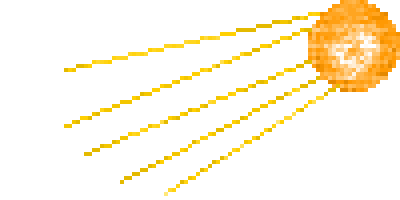
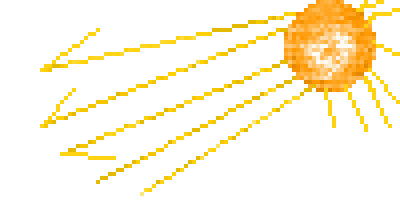
a

diff --git a/game/js/level.js b/game/js/level.js
@@ -630,7 +630,8 @@ function e2m10(){
     E_clear(G_BACKGROUND);
     E_background("https://raw.githubusercontent.com/Mad-Mushroom/DerPhysikus/main/game/js/res/background_blur2.png");
     //let mechanikCastl = new SpriteButton("https://raw.githubusercontent.com/Mad-Mushroom/DerPhysikus/main/game/js/res/burg02_end.png", 250, 250, 350, 380, 0xffffff, 0x0, 20);mechanikCastl.Draw();
-    let anim = new AnimationButton("https://raw.githubusercontent.com/Mad-Mushroom/DerPhysikus/main/game/js/res/e2m10_anim.png", 400, 400, 200, 200, 400, 400, 0.2);
+    let anim = new AnimationButton("https://raw.githubusercontent.com/Mad-Mushroom/DerPhysikus/main/game/js/res/e2m10_anim.png", 400, 400, 450, 200, 400, 400, 0.05);
+    anim.Draw();
     //E_background('https://raw.githubusercontent.com/Mad-Mushroom/DerPhysikus/main/game/js/res/e2m10a_background.png');
     E_topText("Wärmeleitung erfolgt stets von Stellen höherer Temperatur\nzu Stellen niedrigerer Temperatur.");
     E_header();

diff --git a/game/js/main.js b/game/js/main.js
@@ -56,6 +56,7 @@ async function G_cacheAssets(){
     let temp7 = await PIXI.BaseTexture.from("https://raw.githubusercontent.com/Mad-Mushroom/DerPhysikus/main/game/js/res/e3m3_anim2.png");
     let temp8 = await PIXI.BaseTexture.from("https://raw.githubusercontent.com/Mad-Mushroom/DerPhysikus/main/game/js/res/e3m6_anim.png");
     let temp9 = await PIXI.BaseTexture.from("https://raw.githubusercontent.com/Mad-Mushroom/DerPhysikus/main/game/js/res/e3m9_anim.png");
+    let temp10 = await PIXI.BaseTexture.from("https://raw.githubusercontent.com/Mad-Mushroom/DerPhysikus/main/game/js/res/e2m10_anim.png");
     if(G_DEBUG) console.log("DEBUG: Assets cached.");
 }
 
